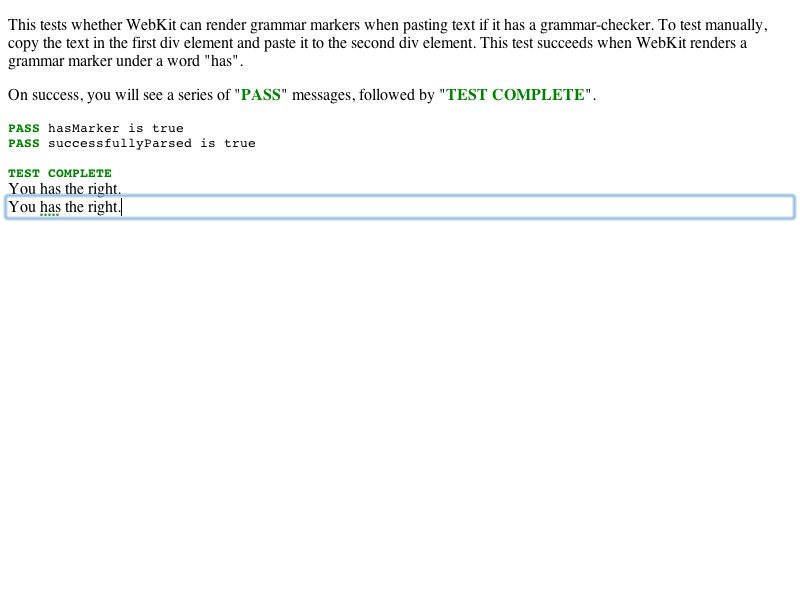
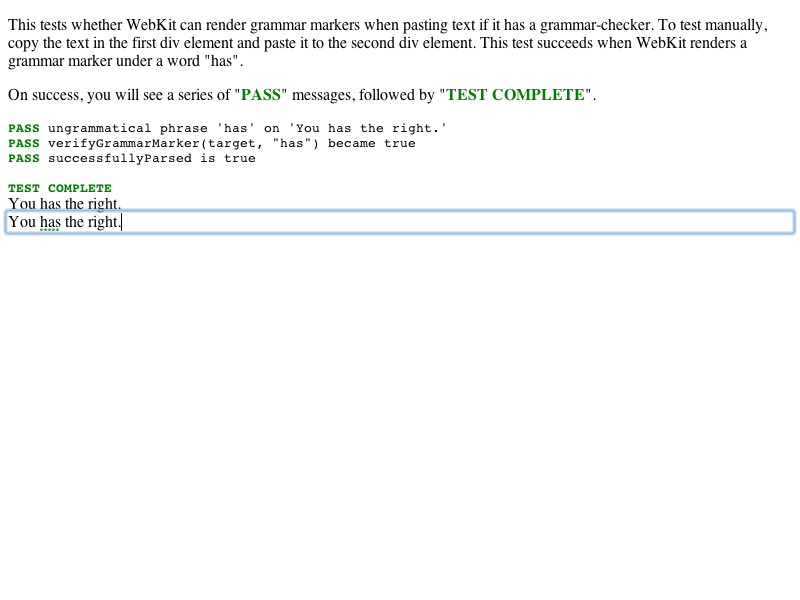
Use shouldBecomeEqual in asynchronous spellchecking tests. https://bugs.webkit.org/show_bug.cgi?id=121483
Reviewed by Darin Adler.

Every asynchronous spellchecking layout test waits for spelling or grammar
markers using setTimeout. It duplicates the code, moreover the implementation
differs in every test.

Use shouldBecomeEqual helper (introduced in r143860) to test spellchecking
asynchronously.

* editing/spelling/grammar-markers-expected.txt:
* editing/spelling/grammar-markers-hidpi-expected.txt:
* editing/spelling/grammar-markers-hidpi.html:
* editing/spelling/grammar-markers.html:

* editing/spelling/grammar-paste-expected.txt:
* editing/spelling/grammar-paste.html:
Dump text of destination element instead of source one to show what is
really tested. It stops outputting that the input and textarea elements
can store html tags, for example,
PASS INPUT has a marker on 'I have a<b>n ki</b>wi'.

* editing/spelling/script-tests/spellcheck-paste.js:
(verifyMarker):
(pasteAndVerify):

* editing/spelling/spellcheck-paste-continuous-disabled-expected.txt:
* editing/spelling/spellcheck-paste-continuous-disabled.html:
* editing/spelling/spellcheck-paste-disabled-expected.txt:
* editing/spelling/spellcheck-paste-disabled.html:
At the beginning, those tests check whether spelling marker appears
synchronously. Then, spell checking is disabled to check whether
the markers have disappeared properly.
There is no need to check spelling asynchronously in the second part
of the tests. Use synchronous spellchecking path instead.

* editing/spelling/spellcheck-paste-expected.txt:
[…]

Changed region(s): [[0.0, 0.21, 1.0, 0.42]]

diff --git a/LayoutTests/editing/spelling/script-tests/spellcheck-paste.js b/LayoutTests/editing/spelling/script-tests/spellcheck-paste.js
@@ -53,9 +53,17 @@ function verifyMarker(node, expectedMarked)
     var ok = true;
     for (var i = 0; ok && i < expectedMarked.length; ++i)
         ok = internals.hasSpellingMarker(document, expectedMarked[i][0], expectedMarked[i][1]);
+
+    if (ok) {
+        var nodeContent = node instanceof HTMLInputElement || node instanceof HTMLTextAreaElement ? node.value : node.innerHTML;
+        testPassed(node.tagName + " has a marker on '" + nodeContent + "'");
+    }
+
     return ok;
 }
 
+var destination = null;
+var misspelledLocations = null;
 function pasteAndVerify(source, dest, expectedMarked)
 {
     sel.selectAllChildren(source);
@@ -69,27 +77,11 @@ function pasteAndVerify(source, dest, expectedMarked)
     }
     document.execCommand("Paste");
 
-    var nretry = 10;
-    var nsleep = 1;
-    function trial() { 
-        var verified = verifyMarker(dest, expectedMarked);
-        if (verified) {
-            testPassed(dest.tagName + " has a marker on '" + source.innerHTML + "'");
-            done();
-            return;
-        }
-
-        nretry--;
-        if (0 == nretry) {
-            testFailed(dest.tagName + " should have a marker on '" + source.innerHTML + "'");
-            done();
-            return;
-        }
-        
-        nsleep *= 2;
-        window.setTimeout(trial, nsleep);
-    };
-    trial();
+    if (window.internals) {
+        destination = dest;
+        misspelledLocations = expectedMarked;
+        shouldBecomeEqual('verifyMarker(destination, misspelledLocations)', 'true', done);
+    }
 };
 
 if (window.internals)

diff --git a/LayoutTests/editing/spelling/spellcheck-paste-continuous-disabled.html b/LayoutTests/editing/spelling/spellcheck-paste-continuous-disabled.html
@@ -13,8 +13,6 @@ description('Test if WebKit does not spellcheck text when pasting text and conti
             'To test manually, disable continuous spellcheck, copy the text "zz apple" and paste it to the textarea. ' +
             'When "zz" is not marked as misspelled, this test succeeds.');
 
-jsTestIsAsync = true;
-
 // Insert a misspelled word to initialize a spellchecker.
 var srcNode = document.getElementById('src');
 srcNode.focus();
@@ -30,28 +28,11 @@ shouldBeTrue('internals.hasSpellingMarker(document, 0, 2)');
 window.getSelection().selectAllChildren(srcNode);
 document.execCommand('Copy');
 
-internals.settings.setAsynchronousSpellCheckingEnabled(true);
 internals.setContinuousSpellCheckingEnabled(false);
 
 document.execCommand('Paste');
+shouldBeFalse('internals.hasSpellingMarker(document, 0, 2)');
 
-var retryCount = 10;
-var sleepPeriod = 1;
-function verifyMarker() {
-    srcNode.focus();
-    var hasMarker = internals.hasSpellingMarker(document, 0, 2);
-    if (!hasMarker && --retryCount > 0) {
-        sleepPeriod *= 2;
-        window.setTimeout(verifyMarker, sleepPeriod);
-        return;
-    }
-    if (hasMarker)
-        testFailed('The destination node should not have a marker.');
-    else
-        testPassed('The destination node does not have any markers.');
-    finishJSTest();
-}
-window.setTimeout(verifyMarker, sleepPeriod);
 </script>
 <script src="../../resources/js-test-post.js"></script>
 </body>

diff --git a/LayoutTests/editing/spelling/grammar-paste.html b/LayoutTests/editing/spelling/grammar-paste.html
@@ -92,9 +92,14 @@ function verifyMarker(node, expectedMarked)
             return false;
     }
 
+    var nodeContent = node instanceof HTMLInputElement || node instanceof HTMLTextAreaElement ? node.value : node.innerHTML;
+    testPassed(node.tagName + " ungrammatical phrase '" + expectedMarked + "' on '" + nodeContent + "'");
+
     return true;
 }
 
+var destination = null;
+var expectedMarked = null;
 function pasteAndVerify(source, dest, expectedMarked)
 {
     sel.selectAllChildren(source);
@@ -108,27 +113,11 @@ function pasteAndVerify(source, dest, expectedMarked)
     }
     document.execCommand("Paste");
 
-    var nretry = 10;
-    var nsleep = 4;
-    function trial() { 
-        var verified = verifyMarker(dest, expectedMarked);
-        if (verified) {
-            testPassed(dest.tagName + " has a marker on '" + source.innerHTML + "'");
-            done();
-            return;
-        }
-
-        nretry--;
-        if (0 == nretry) {
-            testFailed(dest.tagName + " should have a marker on for '" + source.innerHTML + "'");
-            done();
-            return;
-        }
-        
-        nsleep *= 2;
-        window.setTimeout(trial, nsleep);
-    };
-    trial();
+    if (window.internals) {
+        destination = dest;
+        ungrammaticalPhrase = expectedMarked;
+        shouldBecomeEqual('verifyMarker(destination, ungrammaticalPhrase)', 'true', done);
+    }
 };
 
 if (window.internals)

diff --git a/LayoutTests/editing/spelling/spellcheck-paste-disabled.html b/LayoutTests/editing/spelling/spellcheck-paste-disabled.html
@@ -14,8 +14,6 @@ description('Test if WebKit does not spellcheck text when pasting text to an ele
             'To test manually, copy the text "zz apple" and paste it to the textarea. ' +
             'When "zz" is not marked as misspelled, this test succeeds.');
 
-jsTestIsAsync = true;
-
 // Insert a misspelled word to initialize a spellchecker.
 var srcNode = document.getElementById('src');
 srcNode.focus();
@@ -31,29 +29,11 @@ shouldBeTrue('internals.hasSpellingMarker(document, 0, 2)');
 window.getSelection().selectAllChildren(srcNode);
 document.execCommand('Copy');
 
-internals.settings.setAsynchronousSpellCheckingEnabled(true);
-
 var dstNode = document.getElementById('dst');
 dstNode.focus();
 document.execCommand('Paste');
+shouldBeFalse('internals.hasSpellingMarker(document, 0, 2)');
 
-var retryCount = 10;
-var sleepPeriod = 1;
-function verifyMarker() {
-    dstNode.focus();
-    var hasMarker = internals.hasSpellingMarker(document, 0, 2);
-    if (!hasMarker && --retryCount > 0) {
-        sleepPeriod *= 2;
-        window.setTimeout(verifyMarker, sleepPeriod);
-        return;
-    }
-    if (hasMarker)
-        testFailed('The destination node should not have a marker.');
-    else
-        testPassed('The destination node does not have any markers.');
-    finishJSTest();
-}
-window.setTimeout(verifyMarker, sleepPeriod);
 </script>
 <script src="../../resources/js-test-post.js"></script>
 </body>

diff --git a/LayoutTests/editing/spelling/grammar-markers.html b/LayoutTests/editing/spelling/grammar-markers.html
@@ -18,6 +18,15 @@ if (window.internals)
 if (window.testRunner)
     testRunner.dumpAsText(true);
 
+function verifyGrammarMarker(destination, ungrammaticalPhrase)
+{
+    if (window.internals && internals.hasGrammarMarker(document, destination.innerHTML.indexOf(ungrammaticalPhrase), ungrammaticalPhrase.length)) {
+        testPassed("ungrammatical phrase '" + ungrammaticalPhrase + "' on '" + destination.innerHTML + "'");
+        return true;
+    } else
+       return false;
+}
+
 var source = document.getElementById('source');
 window.getSelection().selectAllChildren(source);
 document.execCommand('Copy');
@@ -25,23 +34,7 @@ var target = document.getElementById('target');
 window.getSelection().selectAllChildren(target);
 document.execCommand('Paste');
 
-var retryCount = 10;
-var sleepPeriod = 1;
-var ungrammaticalPhrase = 'has';
-var hasMarker;
-function verifyMarker() {
-    hasMarker = internals.hasGrammarMarker(document, target.innerHTML.indexOf(ungrammaticalPhrase), ungrammaticalPhrase.length);
-    if (!hasMarker && --retryCount > 0) {
-        sleepPeriod *= 2;
-        window.setTimeout(verifyMarker, sleepPeriod);
-        return;
-    }
-
-    shouldBeTrue('hasMarker');
-    finishJSTest();
-};
-
-window.setTimeout(verifyMarker, sleepPeriod);
+shouldBecomeEqual('verifyGrammarMarker(target, "has")', 'true', finishJSTest);
 
 </script>
 <script src="../../resources/js-test-post.js"></script>

diff --git a/LayoutTests/editing/spelling/spelling-marker-description.html b/LayoutTests/editing/spelling/spelling-marker-description.html
@@ -10,33 +10,6 @@
 
 <script>
 
-function verify(nretry)
-{
-    if (!nretry) {
-       finishJSTest()
-       return;
-    }
-
-    var texts = destination.childNodes;
-    markedText = null;
-    for (var i = 0; i < texts.length; ++i) {
-        if (internals.markerCountForNode(texts[i], "spelling")) { 
-            markedText = internals.markerRangeForNode(texts[i], "spelling", 0).toString();
-            markerDescription = internals.markerDescriptionForNode(texts[i], "spelling", 0);
-            break;
-        }
-    }
-
-    if (markedText != null) {
-        shouldBeEqualToString("markedText", "wellcome");
-        shouldBeEqualToString("markerDescription", "welcome");
-        finishJSTest();
-    }
-
-    // Wait until the async spellchecking is done.
-    window.setTimeout(function() { verify(nretry - 1); }, 0);
-}
-
 function test()
 {
     jsTestIsAsync = true;
@@ -49,7 +22,7 @@ function test()
     document.execCommand("InsertHTML", false, "wellcome");
     document.execCommand("InsertText", false, ".");
 
-    window.setTimeout(function() { verify(10); }, 0);
+    shouldBecomeEqualToString('internals.markerDescriptionForNode(destination.firstChild, "spelling", 0)', 'welcome', finishJSTest);
 }
 
 description("The spellchecker should store replacement text in each marker.");

diff --git a/LayoutTests/editing/spelling/grammar-markers-hidpi.html b/LayoutTests/editing/spelling/grammar-markers-hidpi.html
@@ -15,26 +15,19 @@ jsTestIsAsync = true;
 if (window.internals)
     internals.settings.setAsynchronousSpellCheckingEnabled(true);
 
-var retryCount = 10;
-var sleepPeriod = 1;
-var ungrammaticalPhrase = 'has';
-var hasMarker;
-function verifyMarker() {
-    hasMarker = internals.hasGrammarMarker(document, target.innerHTML.indexOf(ungrammaticalPhrase), ungrammaticalPhrase.length);
-    if (!hasMarker && --retryCount > 0) {
-        sleepPeriod *= 2;
-        window.setTimeout(verifyMarker, sleepPeriod);
-        return;
-    }
-
-    shouldBeTrue('hasMarker');
-    finishJSTest();
-};
+function verifyGrammarMarker(destination, ungrammaticalPhrase)
+{
+    if (internals.hasGrammarMarker(document, destination.innerHTML.indexOf(ungrammaticalPhrase), ungrammaticalPhrase.length)) {
+        testPassed("ungrammatical phrase '" + ungrammaticalPhrase + "' on '" + destination.innerHTML + "'");
+        return true;
+    } else
+       return false;
+}
 
 if (window.testRunner) {
     testRunner.dumpAsText(true);
     testRunner.setBackingScaleFactor(2, function () {
-        verifyMarker();
+        shouldBecomeEqual('verifyGrammarMarker(target, "has")', 'true', finishJSTest);
     });
 }
 
